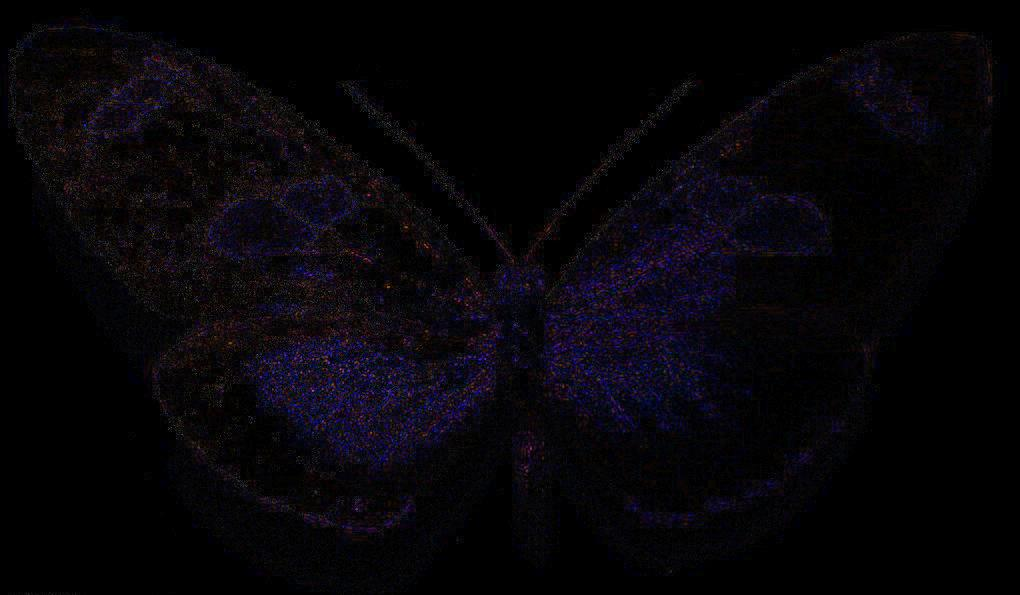
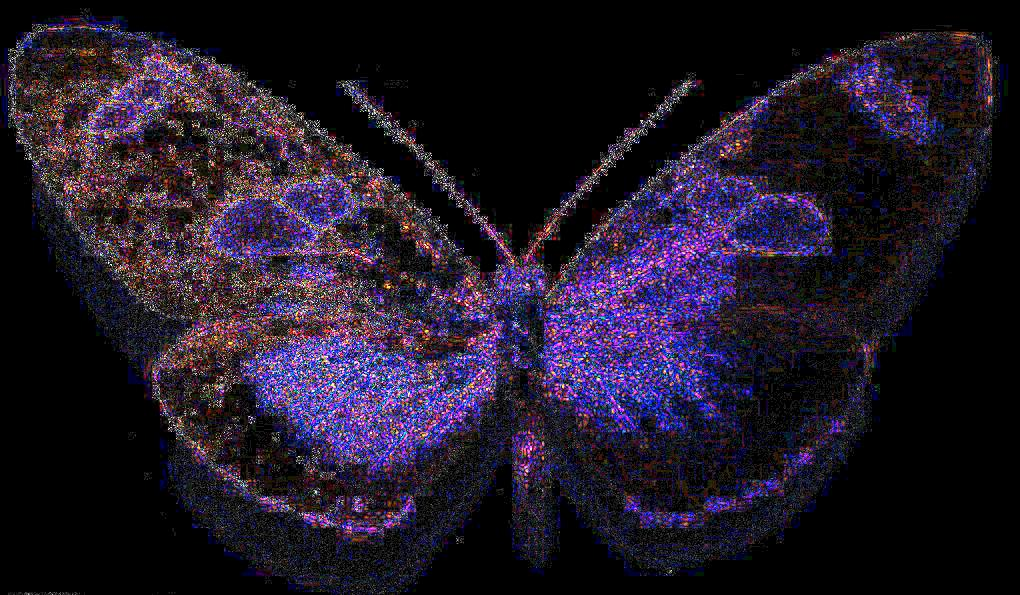
finish feature extraction learning

diff --git a/FeatureExtraction/ELA.py b/FeatureExtraction/ELA.py
@@ -1,5 +1,6 @@
 import os,sys
 import magic
+# import BrightenDiff
 from PIL import Image, ImageChops, ImageEnhance
 
 
@@ -7,24 +8,42 @@ def ela(filename, output_path):
   print("****ELA is starting****")
   if magic.from_file(filename, mime=True) == "image/jpeg":
     quality_level = 85
-    # 获取文件名，.后缀名
     (filerealname, extension) = os.path.splitext(os.path.basename(filename))
-    # print(filerealname, extension)
-    tmp_img = os.path.join(output_path,filerealname+"_tmp.jpg")
-    ela = os.path.join(output_path,filerealname+"_ela.jpg")
+    tmp_path = os.path.join(output_path,filerealname+"_tmp.jpg")
+    ela_path = os.path.join(output_path,filerealname+"_ela.jpg")
+
+    # resave image
     image = Image.open(filename)
-    image.save(tmp_img, 'JPEG', quality=quality_level)
-    tmp_img_file = Image.open(tmp_img)
-    ela_image = ImageChops.difference(image, tmp_img_file)
+    image.save(tmp_path, 'JPEG', quality=quality_level)
+
+    # get the differences between image & tmp_image, then brighten them
+    tmp_image = Image.open(tmp_path)
+    ela_image = ImageChops.difference(image, tmp_image)
     extrema = ela_image.getextrema()
     max_diff = max([ex[1] for ex in extrema])
-    scale = 255.0/max_diff
+    scale = 5*255/max_diff
     ela_image = ImageEnhance.Brightness(ela_image).enhance(scale)
-    ela_image.save(ela)
-    os.remove(tmp_img)
+
+    # save ela , remove tmp
+    ela_image.save(ela_path)
+    os.remove(tmp_path)
     print("****ELA has been completed****")
   else:
     print("ELA works only with JPEG")
+    
+'''
+# use BrightenDiff.brightenDiff
+def ela(filename, output_path):
+  print("****ELA is starting****")
+  quality_level = 85
+  (filerealname, extension) = os.path.splitext(os.path.basename(filename))
+  tmp_path = os.path.join(output_path,filerealname+"_tmp.jpg")
+  image = Image.open(filename)
+  image.save(tmp_path, 'JPEG', quality=quality_level)
+  BrightenDiff.brightenDiff(filename,tmp_path,output_path)
+  os.remove(tmp_path)
+  print("****ELA has been completed****")
+'''
 
 if __name__ == "__main__":
   filename = "./img/butterfly.jpg"

diff --git a/FeatureExtraction/BrightenDiff.py b/FeatureExtraction/BrightenDiff.py
@@ -1,0 +1,31 @@
+import os,sys
+import magic
+from PIL import Image, ImageChops, ImageEnhance
+
+def brightenDiff(img1_path,img2_path,output_path):
+  print("****brightenDiff is starting****")
+  if magic.from_file(img1_path, mime=True) == "image/jpeg" and magic.from_file(img2_path, mime=True) == "image/jpeg" :
+    quality_level = 85
+    (img1realname, extension) = os.path.splitext(os.path.basename(img1_path))
+    (img2realname, extension) = os.path.splitext(os.path.basename(img2_path))
+    brighten_img_path = os.path.join(output_path,img1realname+"AND"+img2realname+"_diff.jpg")
+
+    # get the differences between image & tmp_image, then brighten them
+    image1 = Image.open(img1_path)
+    image2 = Image.open(img2_path)
+    brighten_image = ImageChops.difference(image1, image2)
+    extrema = brighten_image.getextrema()
+    max_diff = max([ex[1] for ex in extrema])
+    scale = max_diff
+    brighten_image = ImageEnhance.Brightness(brighten_image).enhance(scale)
+
+    brighten_image.save(brighten_img_path)
+    print("****brightenDiff has been completed****")
+  else:
+    print("brightenDiff works only with JPEG")
+
+if __name__ == "__main__":
+  img1_path = "./img/books.jpg"
+  img2_path = "./img/books-edited.jpg"
+  output_path = "./img"
+  brightenDiff(img1_path,img2_path,output_path)

diff --git a/README.md b/README.md
@@ -254,7 +254,22 @@ pip install opencv-contrib-python==3.4.2.16 -i "https://pypi.doubanio.com/simple
 
 ### 3、错误级别分析（Error level analysis，ELA）
 
-代码参考：https://github.com/redaelli/imago-forensics/blob/master/imago/extractor.py#L71
+>学习参考：   
+>http://www.errorlevelanalysis.com/   
+>http://fotoforensic.com/tutorial.php?tt=ela   
+>https://en.wikipedia.org/wiki/Error_level_analysis   
+>代码参考:   
+>https://github.com/redaelli/imago-forensics/blob/master/imago/extractor.py#L71
+
+**① 理论说明**
+
+ELA 全称：Error Level Analysis ，汉译为“错误级别分析”或者叫“误差分析”。通过检测特定压缩比率重新绘制图片后造成的误差分布，可用于识别JPEG图片的压缩。
+
+>Principe：Error Level Analysis (ELA) permits identifying areas within an image that are at different compression levels. With JPEG images, the entire picture should be at roughly the same level. If a section of the image is at a significantly different error level, then it likely indicates a digital modification.
+
+原理：错误级别分析可以识别出一幅图片不同压缩率的地方。JPEG图像全图应该大约是相同的压缩率。如果图片的某一部分有非常突出的错误压缩率，则它可能被数字化更改过。
+
+**② 编程**
 
 为了引入magic文件类型识别，安装 `python-magic-bin` 库。
 
@@ -262,11 +277,82 @@ pip install opencv-contrib-python==3.4.2.16 -i "https://pypi.doubanio.com/simple
 pip install -i http://mirrors.aliyun.com/pypi/simple/ python-magic-bin
 ```
 
-原图&效果图：
+代码文件：`./FeatureExtraction/img/ELA.py`
 
-![butterfly.jpg](./FeatureExtraction/img/butterfly.jpg)
+<details>
+<summary>带注释的代码</summary>
 
-![butterfly_ela.jpg](./FeatureExtraction/img/butterfly_ela.jpg)
+```py
+import os,sys
+import magic
+from PIL import Image, ImageChops, ImageEnhance
+
+
+def ela(filename, output_path):
+  print("****ELA is starting****")
+  if magic.from_file(filename, mime=True) == "image/jpeg":
+    # set tmp_image's quality_level to be resaved
+    quality_level = 80
+    # get fileRealName,.postfix
+    (filerealname, extension) = os.path.splitext(os.path.basename(filename))
+    # set tmp_image & ela_image path
+    tmp_path = os.path.join(output_path,filerealname+"_tmp.jpg")
+    ela_path = os.path.join(output_path,filerealname+"_ela.jpg")
+
+    # resave image
+    image = Image.open(filename)
+    image.save(tmp_path, 'JPEG', quality=quality_level)
+
+
+    tmp_image = Image.open(tmp_path)
+    # return abs of difference
+    ela_image = ImageChops.difference(image, tmp_image)
+    # return (min,max) two-truples with RGB 3 elements, eg. ((0,255),(0,255),(0,255))
+    extrema = ela_image.getextrema()
+    # get the max of RGB max
+    max_diff = max([ex[1] for ex in extrema])
+    # set scale to enhance
+    scale = 255/max_diff
+    # 'Brightness' indicates we will brignten img
+    # 'enhance' indicates the scale of brightness
+    # An enhancement factor of 0.0 gives a black image. A factor of 1.0 gives the original image.
+    ela_image = ImageEnhance.Brightness(ela_image).enhance(scale)
+
+    ela_image.save(ela_path)
+    os.remove(tmp_path)  # if remove this code, image will be resaved as tem_image and won't be removed.
+    print("****ELA has been completed****")
+  else:
+    print("ELA works only with JPEG")
+
+if __name__ == "__main__":
+  filename = "./img/webOriginalImg.jpg"
+  output_path = "./img"
+  ela(filename, output_path)
+```
+
+</details>
+
+**③ 原图&效果图**
+
+第一组
+
+原图 | ELA高亮图
+-|-
+![butterfly.jpg](./FeatureExtraction/img/butterfly.jpg) | ![butterfly_ela.jpg](./FeatureExtraction/img/butterfly_ela.jpg)
+![faketest.jpg](./FeatureExtraction/img/faketest.jpg) | ![faketest_ela.jpg](./FeatureExtraction/img/faketest_ela.jpg)
+
+第二组
+
+原图 | 网上的ELA高亮图 | 我自己做的ELA高亮图
+-|-|-
+![webOriginalImg.jpg](./FeatureExtraction/img/webOriginalImg.jpg) | ![webOriginalImg-ela.jpg](./FeatureExtraction/img/webOriginalImg-ela.jpg) | ![webOriginalImg_ela.jpg](./FeatureExtraction/img/webOriginalImg_ela.jpg)
+![dancersmiling.jpg](./FeatureExtraction/img/dancersmiling.jpg) | ![dancersmiling-ela.png](./FeatureExtraction/img/dancersmiling-ela.png) | ![dancersmiling_ela.jpg](./FeatureExtraction/img/dancersmiling_ela.jpg)
+
+第三组
+
+图1 | 图2 | 差别
+-|-|-
+![books.jpg](./FeatureExtraction/img/books.jpg) | ![books-edited.jpg](./FeatureExtraction/img/books-edited.jpg) | ![booksANDbooks-edited_diff.jpg](./FeatureExtraction/img/booksANDbooks-edited_diff.jpg) 
 
 ## 五、数据库预处理
 
